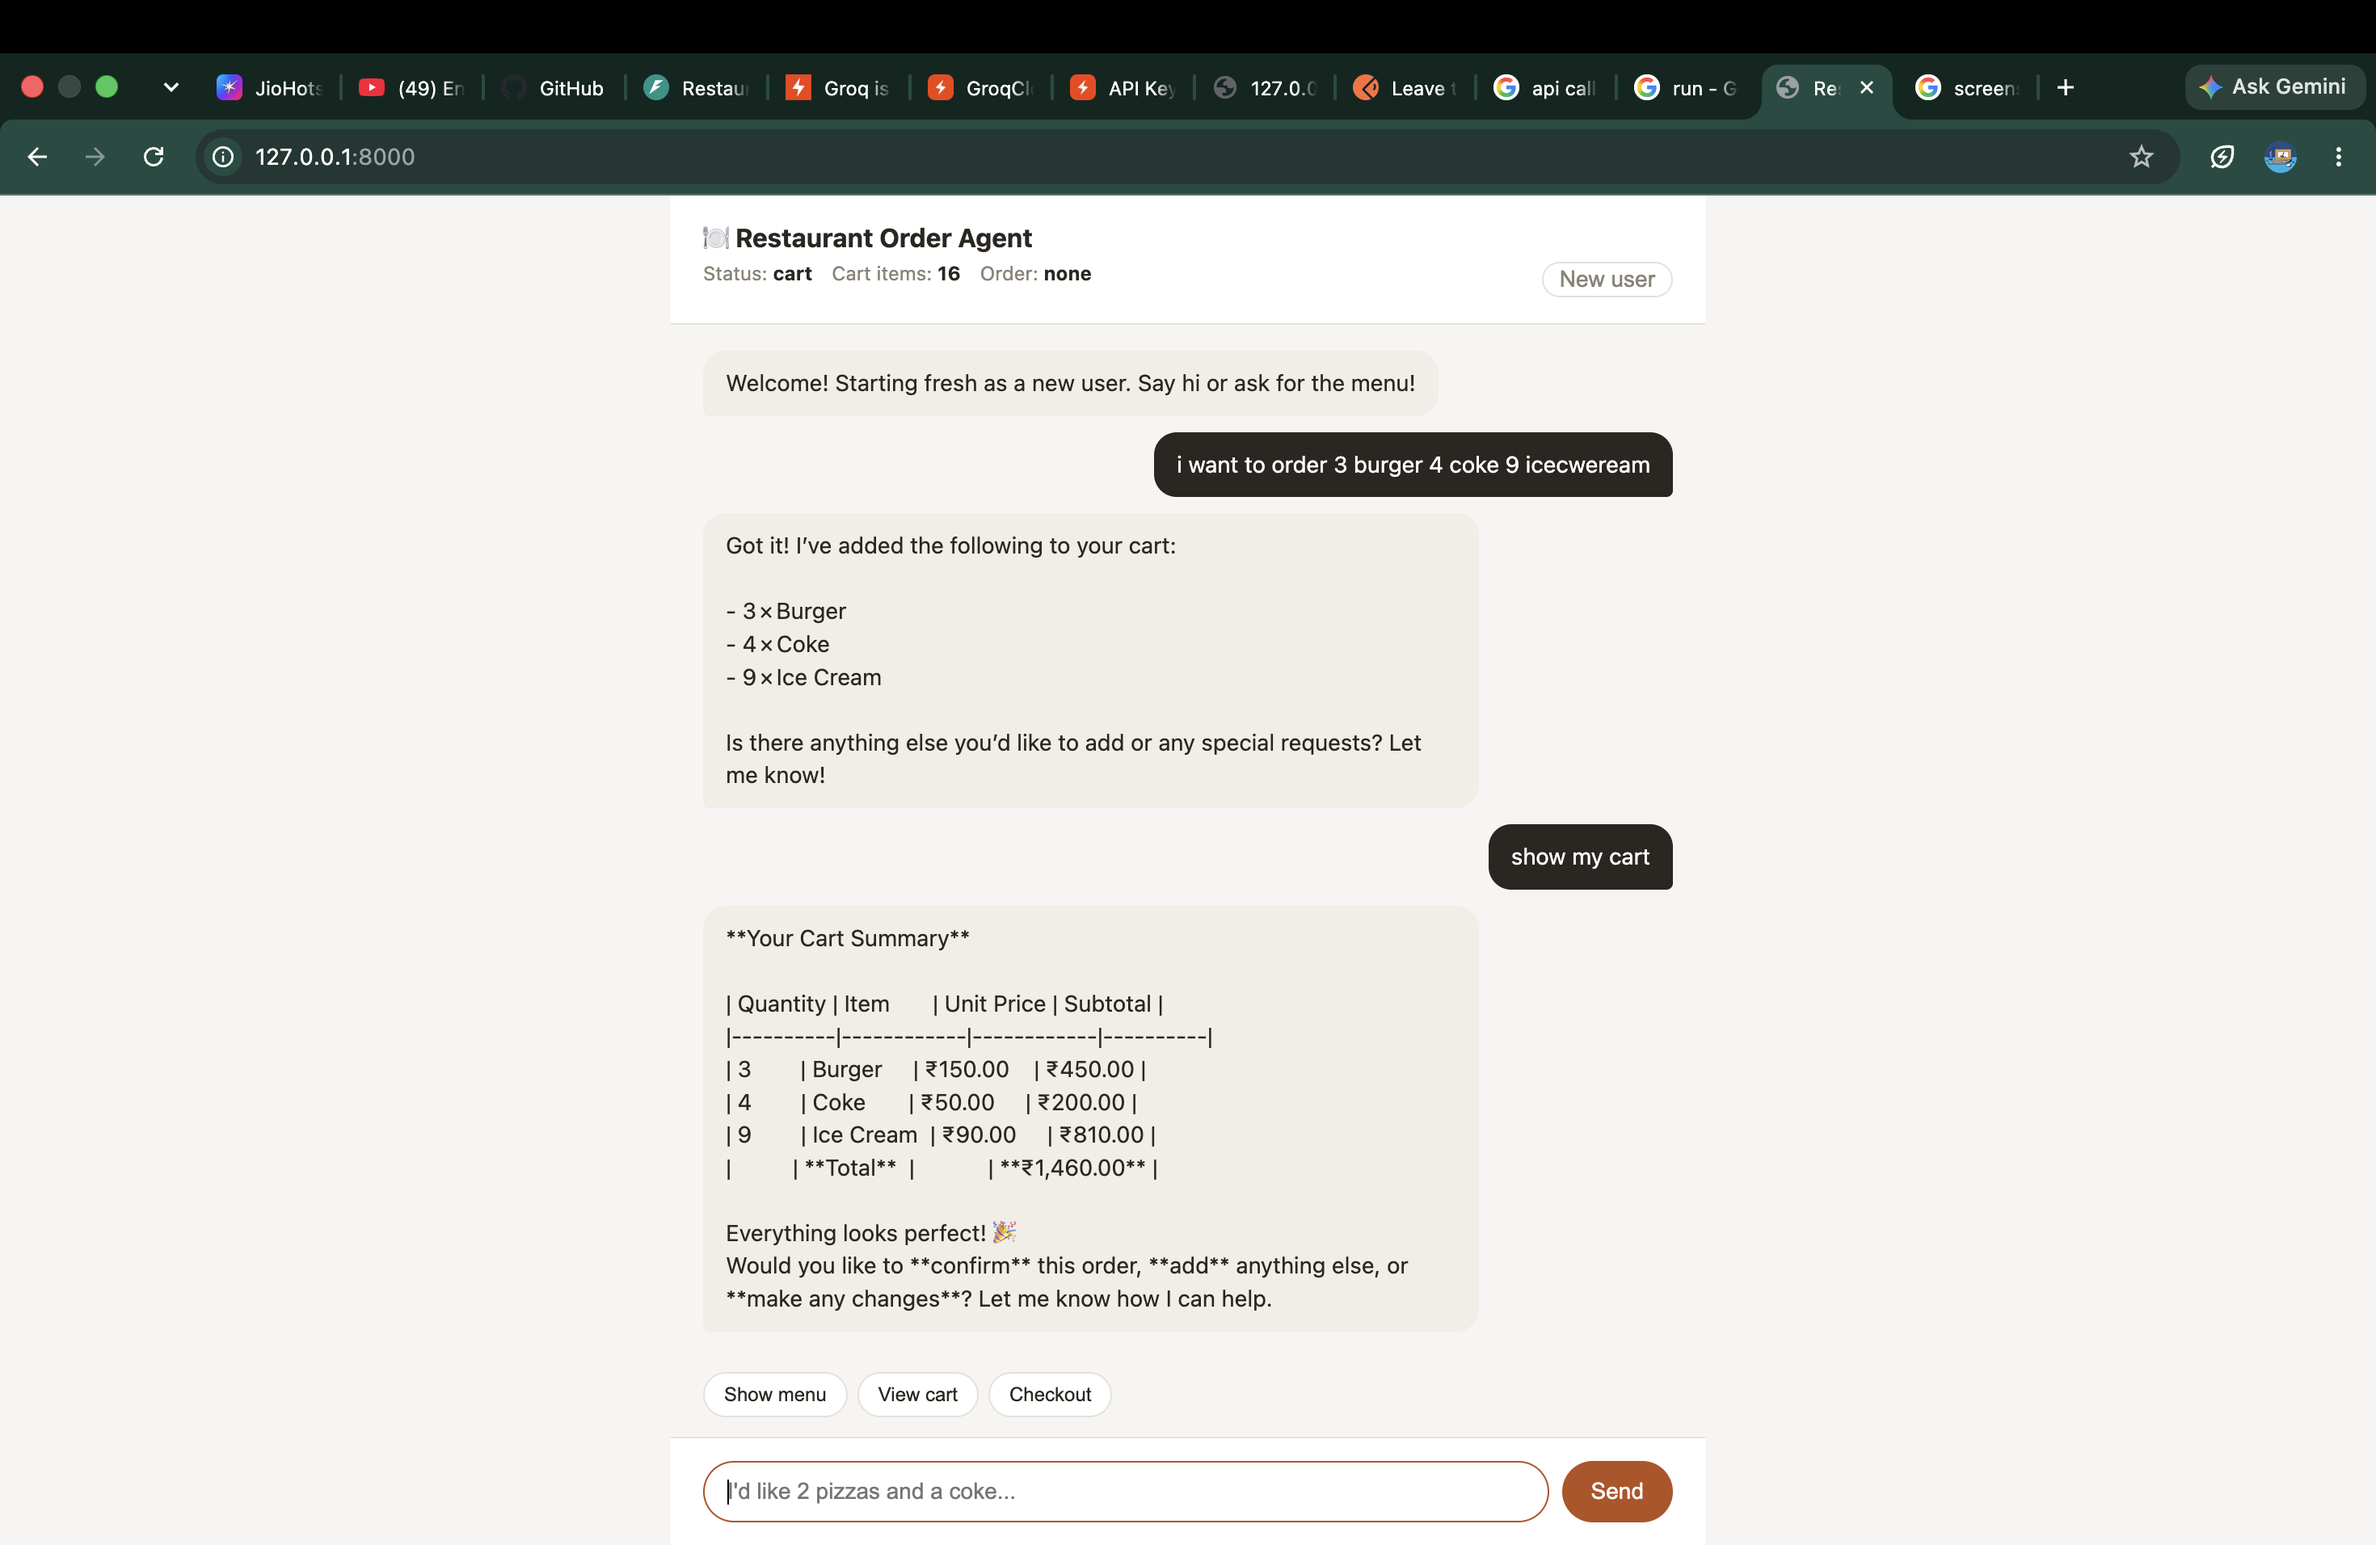
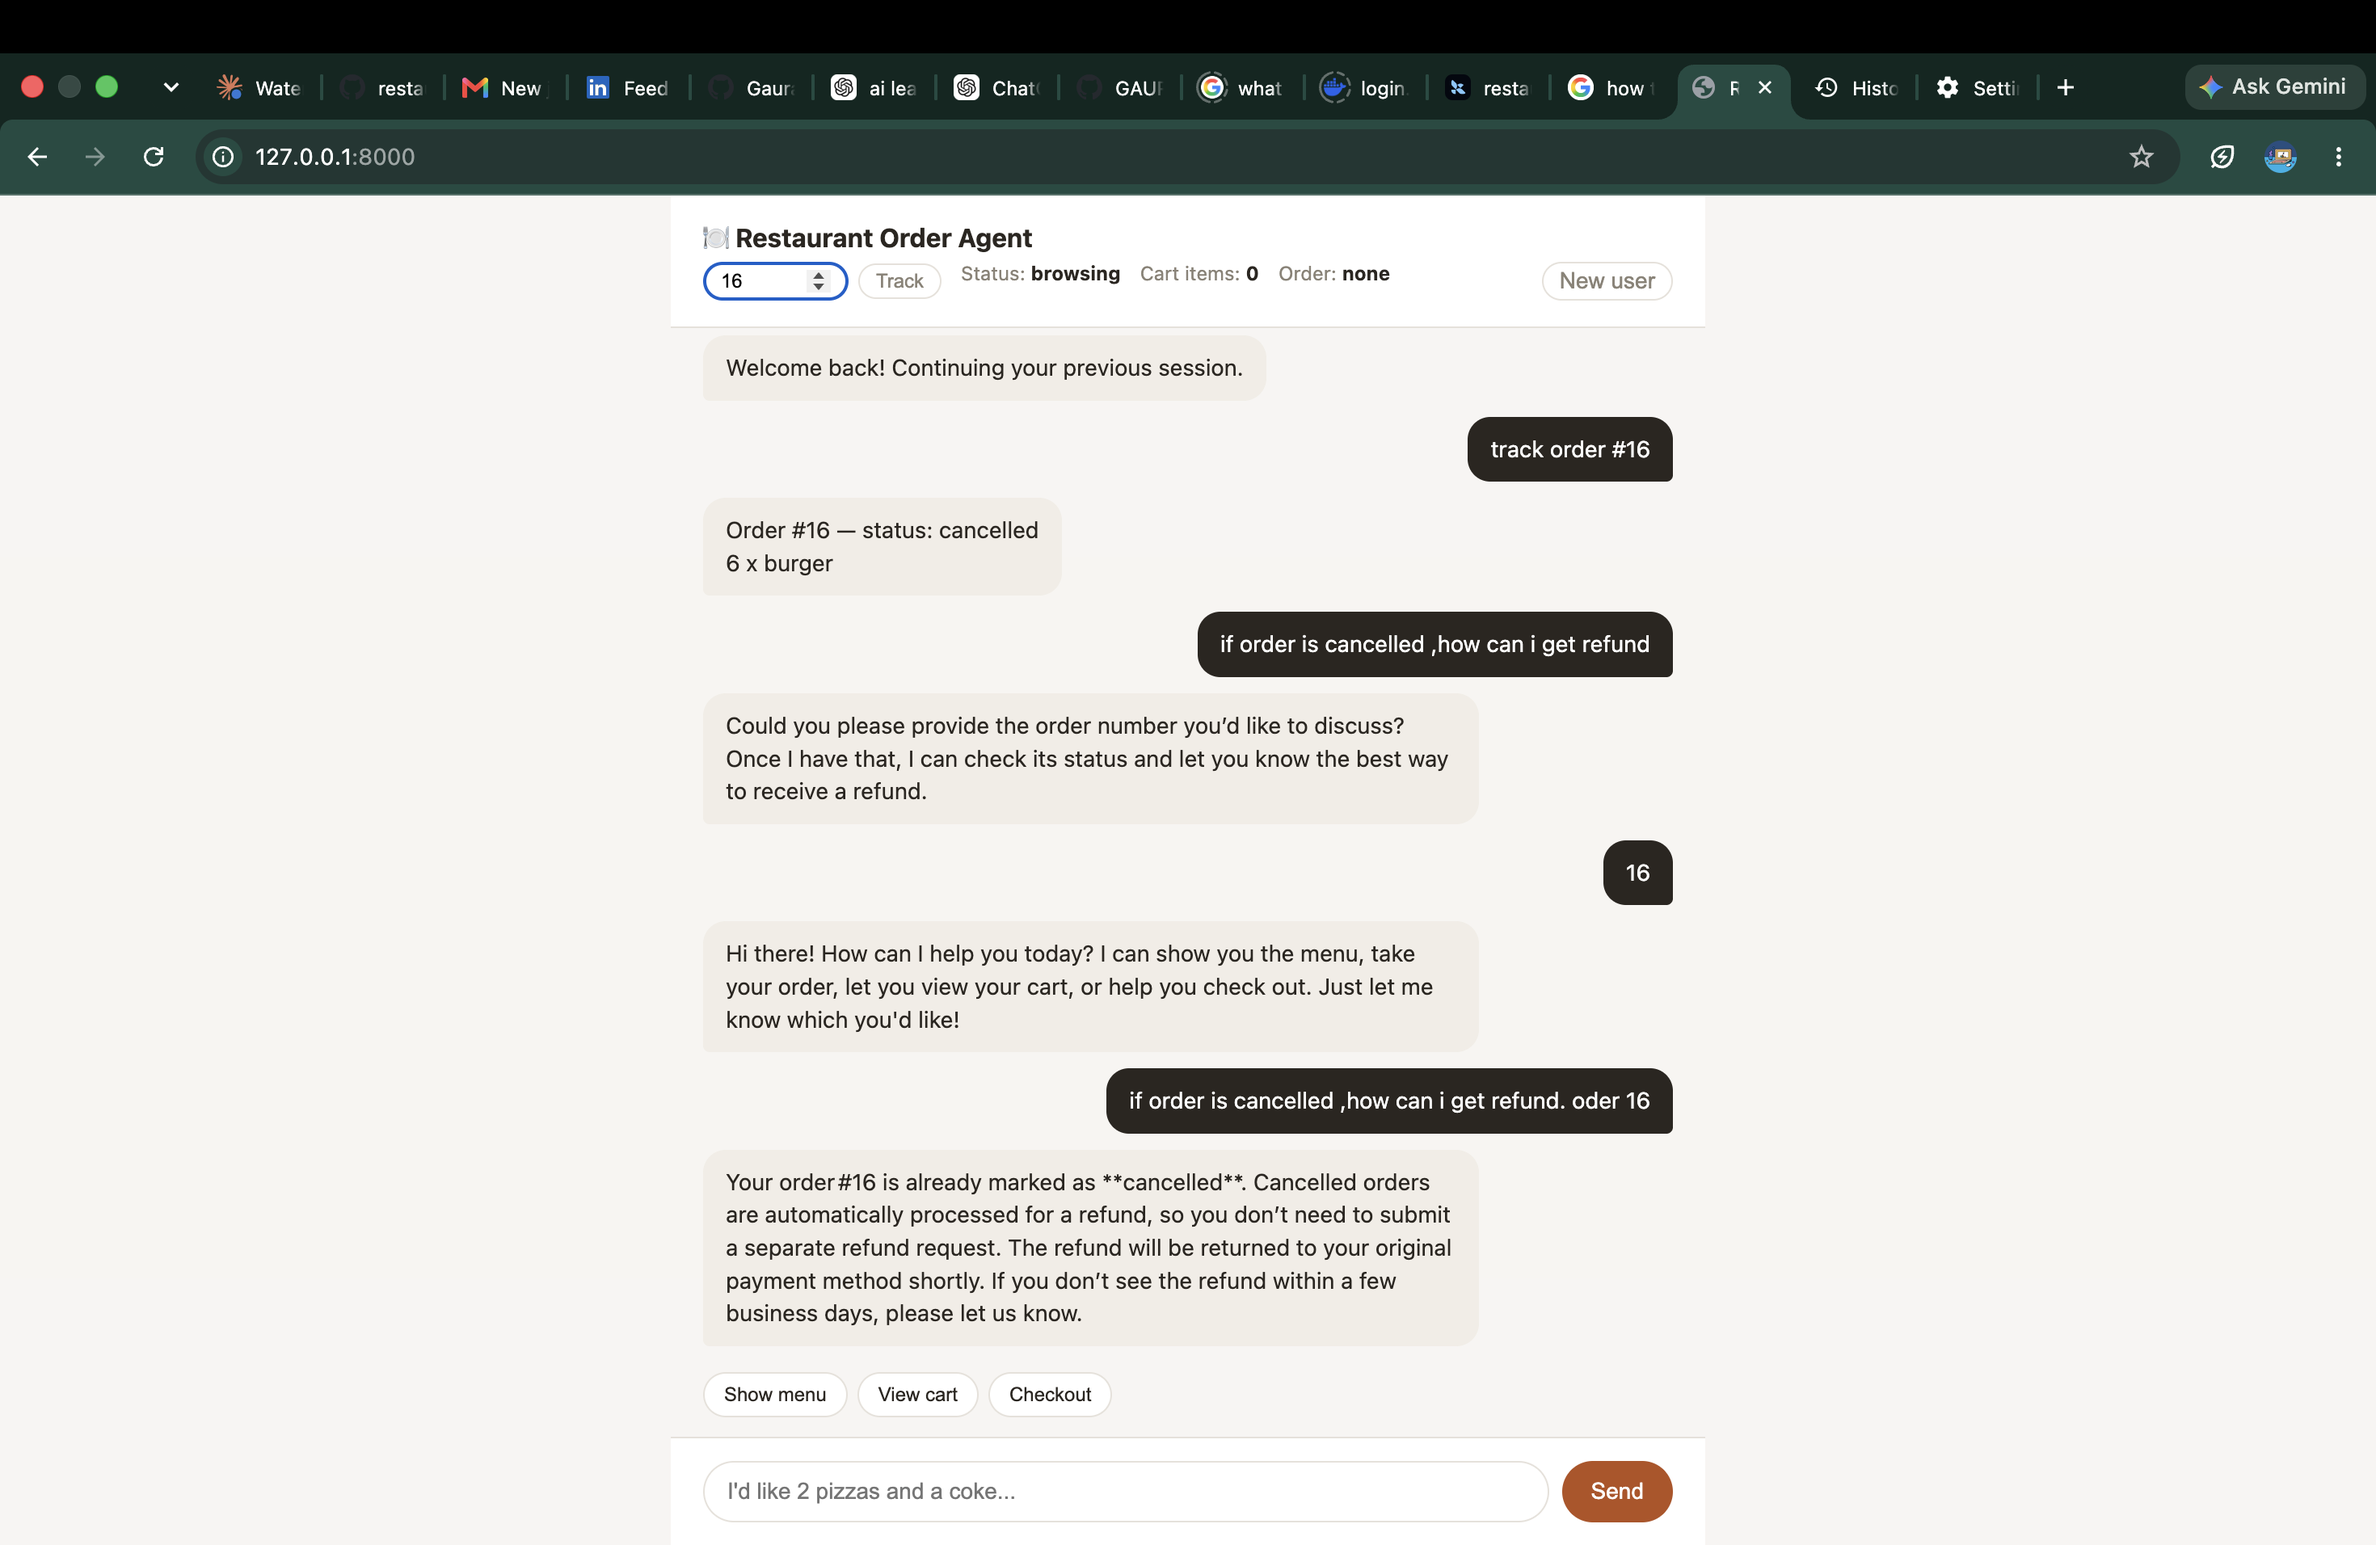
adding all meature in ui

diff --git a/static/index.html b/static/index.html
@@ -136,6 +136,10 @@
   <header>
     <h1>🍽 Restaurant Order Agent</h1>
     <div class="meta">
+      <span id="track-order" style="display:flex; gap:6px; align-items:center;">
+        <input id="track-order-input" type="number" min="1" placeholder="Order #" style="width:90px; padding:4px 10px; border:1px solid var(--border); border-radius:999px; font-size:12px;" />
+        <button type="button" id="track-order-btn" class="secondary" style="padding:3px 10px; font-size:12px;">Track</button>
+      </span>
       <span>Status: <b id="status">browsing</b></span>
       <span>Cart items: <b id="cart-count">0</b></span>
       <span>Order: <b id="order-id">none</b></span>
@@ -144,11 +148,6 @@
   </header>
 
   <div id="messages"></div>
-
-  <div id="track-order" style="display:flex; gap:8px; padding:0 20px 12px;">
-    <input id="track-order-input" type="number" min="1" placeholder="Order # to track" style="flex:1; padding:8px 12px; border:1px solid var(--border); border-radius:999px; font-size:13px;" />
-    <button type="button" id="track-order-btn" class="secondary">Track</button>
-  </div>
 
   <div class="quick-actions">
     <button type="button" data-msg="show me the menu">Show menu</button>

diff --git a/tests/test_checkout_cooking_delivery.py b/tests/test_checkout_cooking_delivery.py
@@ -61,7 +61,7 @@ def test_cooking_stage_failure_retries_when_attempts_remain(fake_llm, fake_repos
 
 def test_cooking_stage_failure_regrets_after_retries_exhausted(fake_llm, fake_repository, base_state, monkeypatch):
     monkeypatch.setattr(agent.random, "random", lambda: 0.0)
-    fake_repository.add_cart_item("test-session", "pizza", 1)
+    fake_repository.add_cart_item("test-session", "coke", 1)  # 50, under the 100 threshold
     order = fake_repository.create_order_from_cart("test-session")
     result = agent.cooking_stage(
         _state(base_state, order_id=order["order_id"], cook_retry_count=agent.MAX_COOKING_RETRIES)
@@ -74,8 +74,7 @@ def test_cooking_stage_failure_regrets_after_retries_exhausted(fake_llm, fake_re
 
 def test_cooking_stage_large_refund_needs_human_approval(fake_llm, fake_repository, base_state, monkeypatch):
     monkeypatch.setattr(agent.random, "random", lambda: 0.0)
-    fake_repository.add_cart_item("test-session", "pizza", 50)  # 50 x 200 = 10,000
-    fake_repository.add_cart_item("test-session", "burger", 1)  # tips it over 10,000
+    fake_repository.add_cart_item("test-session", "pizza", 1)  # 200, over the 100 threshold
     order = fake_repository.create_order_from_cart("test-session")
     result = agent.cooking_stage(
         _state(base_state, order_id=order["order_id"], cook_retry_count=agent.MAX_COOKING_RETRIES)
@@ -86,7 +85,7 @@ def test_cooking_stage_large_refund_needs_human_approval(fake_llm, fake_reposito
 
 def test_cooking_stage_small_refund_auto_approved(fake_llm, fake_repository, base_state, monkeypatch):
     monkeypatch.setattr(agent.random, "random", lambda: 0.0)
-    fake_repository.add_cart_item("test-session", "pizza", 1)
+    fake_repository.add_cart_item("test-session", "coke", 1)  # 50, under the 100 threshold
     order = fake_repository.create_order_from_cart("test-session")
     result = agent.cooking_stage(
         _state(base_state, order_id=order["order_id"], cook_retry_count=agent.MAX_COOKING_RETRIES)

diff --git a/agent_tools.py b/agent_tools.py
@@ -93,7 +93,7 @@ def request_refund_for_order(order_id: int) -> dict | None:
     cooking - use cancel_order for an order that hasn't started cooking
     yet - or a refund was already requested/resolved for it).
 
-    Refunds up to ₹10,000 are approved immediately (returned status:
+    Refunds up to ₹100 are approved immediately (returned status:
     "refunded"). Larger refunds need a human to review them first
     (returned status: "pending_refund_approval") - tell the customer
     it's being reviewed and will be handled shortly, don't imply it's

diff --git a/service.py b/service.py
@@ -337,7 +337,7 @@ def checkout_endpoint(
 # --- human-in-the-loop refund approval (V3.3) ---
 # No admin UI yet - these are plain endpoints a human (you, today) calls
 # directly, e.g. via curl/Postman, after reviewing a large refund. See
-# db/repository.py's request_refund for the >10,000 threshold logic that
+# db/repository.py's request_refund for the >100 threshold logic that
 # routes an order here in the first place.
 
 class RefundDecisionResponse(BaseModel):

diff --git a/db/repository.py b/db/repository.py
@@ -382,7 +382,7 @@ def update_order_status(order_id: int, status: str, expected_version: int | None
 # table gets built later, swap get_order_total's source for the actual
 # amount charged instead of re-deriving it from line items.
 
-REFUND_APPROVAL_THRESHOLD = 10_000  # INR; above this, a human must approve
+REFUND_APPROVAL_THRESHOLD = 100  # INR; above this, a human must approve
 
 
 def get_order_total(order_id: int) -> float | None:

diff --git a/tests/conftest.py b/tests/conftest.py
@@ -153,7 +153,7 @@ class FakeRepository:
         if order is None or order["status"] not in ("ordered", "delivered"):
             return None
         total = self.get_order_total(order_id)
-        status = "pending_refund_approval" if total > 10_000 else "refunded"
+        status = "pending_refund_approval" if total > 100 else "refunded"
         return self.update_order_status(order_id, status)
 
 

diff --git a/prompt_implementation.md b/prompt_implementation.md
@@ -83,3 +83,5 @@ New instructions given from here on, appended as they come in.
   - Scope: add a real GET /orders/{order_id} endpoint plus a "Track order" box in the UI (type any order number, even from a past session, see its status/items) - not just making the existing status bar's order id clickable, since that only ever shows the CURRENT session's order. For refunds, add a request_refund_for_order tool so the agent can handle "I want a refund for order 16" in chat, reusing the same >10,000 human-approval threshold as the cooking-failure refund path.
   - Done. GET /orders/{order_id} is public (no auth exists anywhere else in this app either), returns {order_id, status, items}, 404 if it doesn't exist. UI has a "Track order" input box that calls it directly and shows the result as a chat bubble - works for any order number, not just the current session's.
   - For refunds/order help: added a new ORDER_HELP intent (route_intent now recognizes "check on an existing order" as distinct from cart/checkout) and a new order_help node running a tool loop over get_order_status/request_refund_for_order/cancel_order. Along the way found request_refund had no guard on the order's current status at all - it would've happily "refunded" an order still cooking. Added a REFUNDABLE_STATUSES check (only "ordered" - cooking_stage's own failure-refund call - or "delivered" can be refunded; already-resolved/cooking orders can't). Tested live: asking for a refund on an order that hasn't started cooking correctly got redirected to a cancellation instead (the agent reasoned that was more correct than a "refund" on food that was never made) - asking on a genuinely delivered order correctly refunded it. Order tracking via chat ("what's the status of order 16") and via the endpoint both verified live. 50 tests still passing.
+- **2026-09-30**: Asked to move the "Track order" box to the left in the UI. Moved it into the header's meta row (same row as Status/Cart items/Order), as the first/leftmost item, instead of its own full-width bar below the messages. Kept the same element ids and all existing JS wiring, just shrunk it visually to fit the compact header row.
+- **2026-09-30**: Said the 1,000 refund auto-approval threshold was too high - "no one will book 1000 product" - wants it at 100 instead. Changed REFUND_APPROVAL_THRESHOLD in db/repository.py from 10_000 to 100, updated the matching value in the test double (tests/conftest.py) and the docstring in agent_tools.py's request_refund_for_order tool, plus README/service.py mentions of the old number. Had to also fix 3 existing tests in tests/test_checkout_cooking_delivery.py that assumed a single pizza (200) or 50 pizzas (10,000) landed on one side or the other of the threshold - swapped the "should auto-approve" cases to use 1 coke (50, under 100) and left the "needs approval" case at 1 pizza (200, now well over 100). All 50 tests still passing.

diff --git a/README.md b/README.md
@@ -271,7 +271,7 @@ docker run -p 8000:8000 \
 
 - `GET /orders/{order_id}` — public order tracking by order number (no auth — same as the rest of this app). Returns `{order_id, status, items}`, `404` if the order doesn't exist. The chat UI has a "Track order" box that calls this directly.
 
-- `POST /orders/{order_id}/approve-refund` / `POST /orders/{order_id}/reject-refund` — resolve a refund parked at `pending_refund_approval` (order total over ₹10,000 — see [Data layer](#data-layer)). No admin UI yet; call these directly. `404` if the order isn't currently awaiting approval.
+- `POST /orders/{order_id}/approve-refund` / `POST /orders/{order_id}/reject-refund` — resolve a refund parked at `pending_refund_approval` (order total over ₹100 — see [Data layer](#data-layer)). No admin UI yet; call these directly. `404` if the order isn't currently awaiting approval.
 
 Customers can also ask about an existing order **conversationally** through `/chat` — "what's the status of order 16?", "I'd like a refund for order 17", "cancel order 16" all route to a tool-calling flow (`get_order_status` / `request_refund_for_order` / `cancel_order`) rather than a fixed endpoint call, same pattern as ordering/cart management.
 
